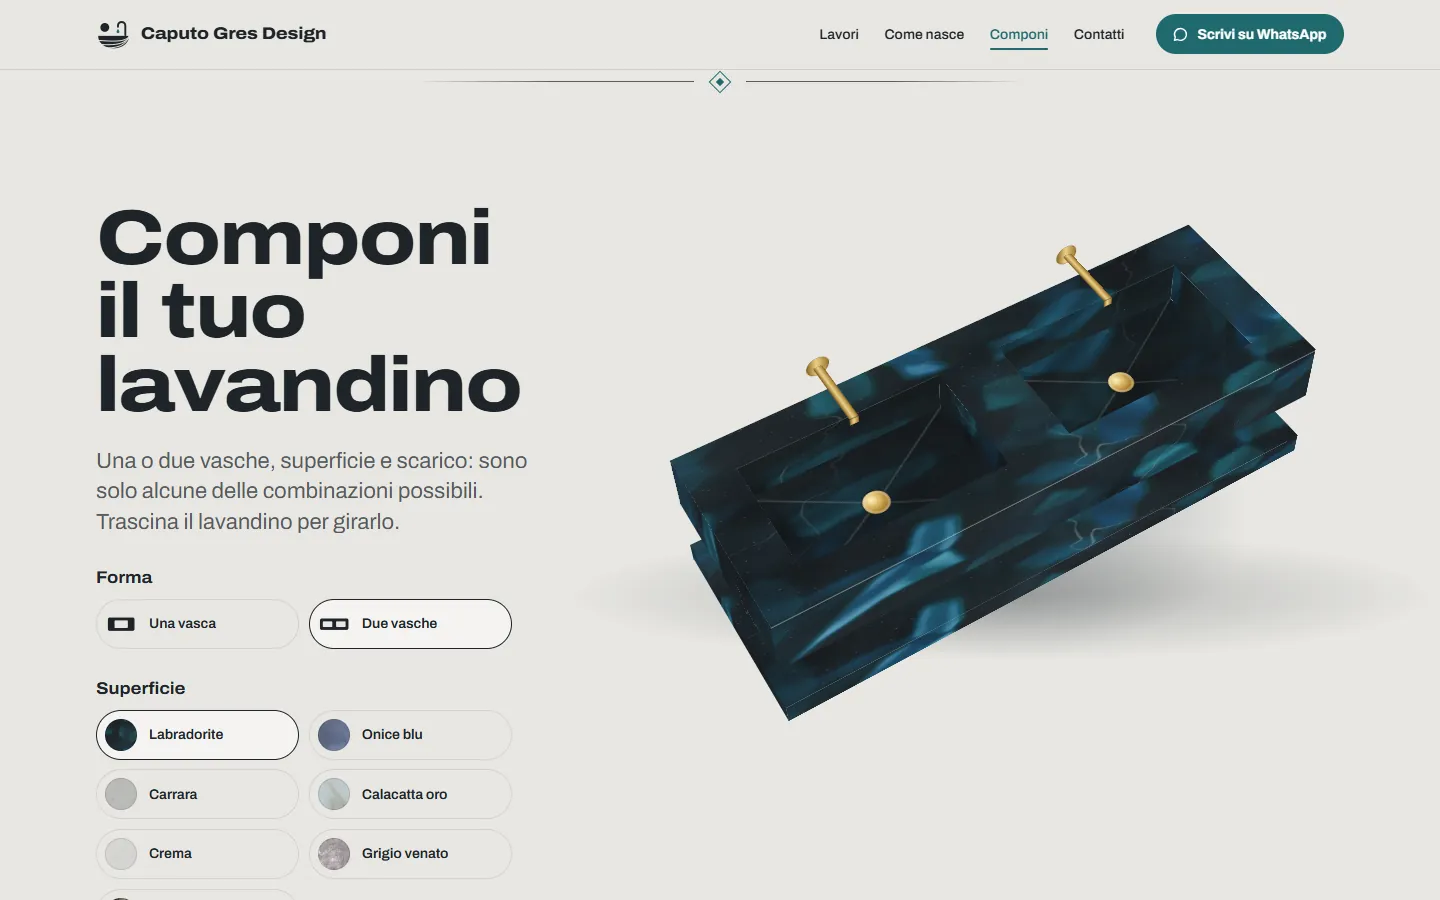
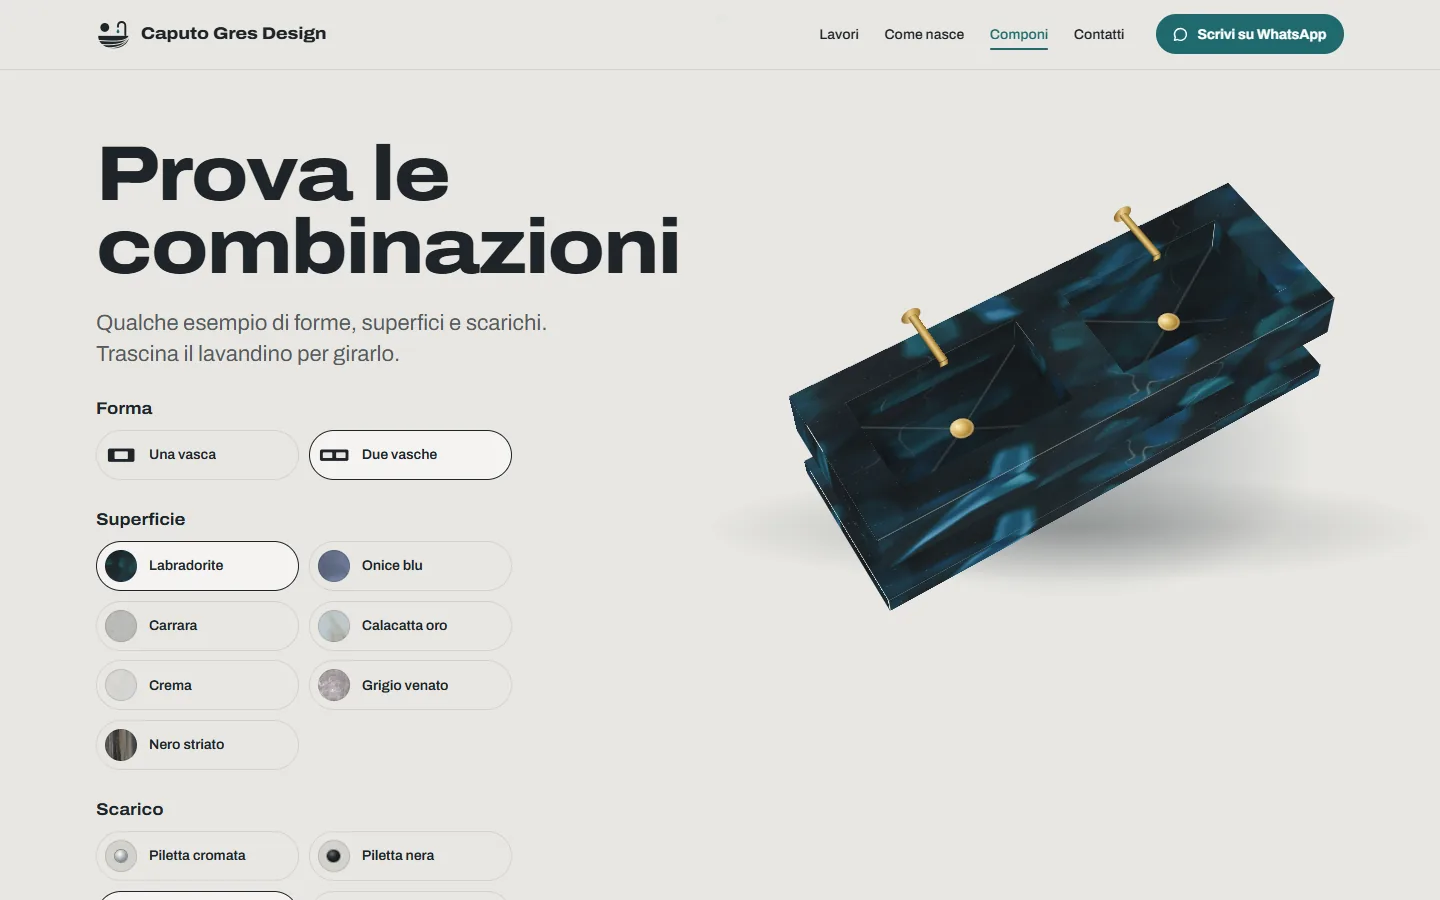
docs: README e screenshot aggiornati

diff --git a/README.md b/README.md
@@ -6,15 +6,15 @@
 
 > **Lavandini su misura in gres porcellanato, tagliati, uniti a 45° e rifiniti a mano a Ugento, nel Salento.**
 
-- 🪨 Il sito vetrina di un laboratorio artigianale: i lavori fatti, come nasce un lavandino e un lavandino 3D da comporre
-- 💬 Nessun e-commerce: chi visita sceglie un'idea e scrive su WhatsApp con un messaggio già pronto
+- 🪨 Il sito vetrina di un laboratorio artigianale: i lavori fatti, come nasce un lavandino e un lavandino 3D con cui provare le combinazioni
+- 💬 Nessun e-commerce: chi visita sceglie un'idea e scrive su WhatsApp con un messaggio già pronto, oppure per email
 
 ## 📸 Schermate
 
 <p align="center">
   <img src="assets/screenshots/sito_hero.webp" alt="Apertura del sito" width="32%">
   <img src="assets/screenshots/sito_lavori.webp" alt="Lavori" width="32%">
-  <img src="assets/screenshots/sito_componi.webp" alt="Componi il tuo lavandino" width="32%">
+  <img src="assets/screenshots/sito_componi.webp" alt="Prova le combinazioni" width="32%">
 </p>
 
 <p align="center"><sub>Apertura · Lavori · Componi</sub></p>
@@ -27,8 +27,9 @@
 - 🖼 Lavori in una galleria a scorrimento orizzontale, con il campione della lastra dietro ogni foto
 - 🔍 Ogni lavoro si apre in grande, con «Chiedine uno simile» che prepara già il messaggio
 - 🛠 «Come nasce»: i cinque passi della lavorazione, dalle misure alla posa
-- 🧩 «Componi il tuo lavandino»: lavandino 3D da girare col mouse o col dito, con forma, superficie, scarico, rubinetto e mensola
-- 💬 Contatto solo su WhatsApp, con messaggio modificabile prima dell'invio
+- 🧩 «Prova le combinazioni»: lavandino 3D da girare col mouse o col dito, con forma, superficie, scarico, rubinetto e mensola
+- 💬 Contatto su WhatsApp, con messaggio modificabile prima dell'invio, o per email
+- 🔐 Pagina privacy breve e chiara, linkata dal footer
 - 📱 Pensato per telefono e computer, con menu a pannello sugli schermi piccoli
 - ♿ Navigabile da tastiera e rispettoso di «Riduci movimento»: con l'impostazione attiva le animazioni si spengono
 
@@ -80,6 +81,7 @@ La build genera in `dist/` anche la galleria in HTML, i dati strutturati per i m
 ## 📂 Struttura essenziale
 
 - `index.html` → markup e testi della pagina
+- `privacy.html` → pagina privacy, servita come `/privacy`
 - `src/main.js` → avvio dei moduli
 - `src/hero.js`, `src/galleria.js`, `src/componi.js`, … → un modulo per ogni sezione
 - `src/sink.js` → il lavandino 3D in CSS
@@ -87,15 +89,16 @@ La build genera in `dist/` anche la galleria in HTML, i dati strutturati per i m
 - `src/config.js` → indirizzo del sito, contatti e social
 - `src/lavori.js` → i lavori della galleria
 - `public/` → foto dei lavori, texture delle superfici, icone e pagina 404
-- `vite.config.js` → plugin che generano galleria, SEO e header
+- `vite.config.js` → plugin che generano galleria, SEO, anno del footer e header; build delle due pagine
 
 ---
 
 ## 🔐 Privacy
 
 - Nessun cookie e nessun sistema di tracciamento
-- Nessun backend: il contatto passa direttamente da WhatsApp
+- Nessun modulo né backend: il contatto passa direttamente da WhatsApp o dall'email
 - Font e risorse serviti dallo stesso sito, senza servizi esterni
+- Informativa completa su [/privacy](https://caputogresdesign.pages.dev/privacy)
 
 ---
 
